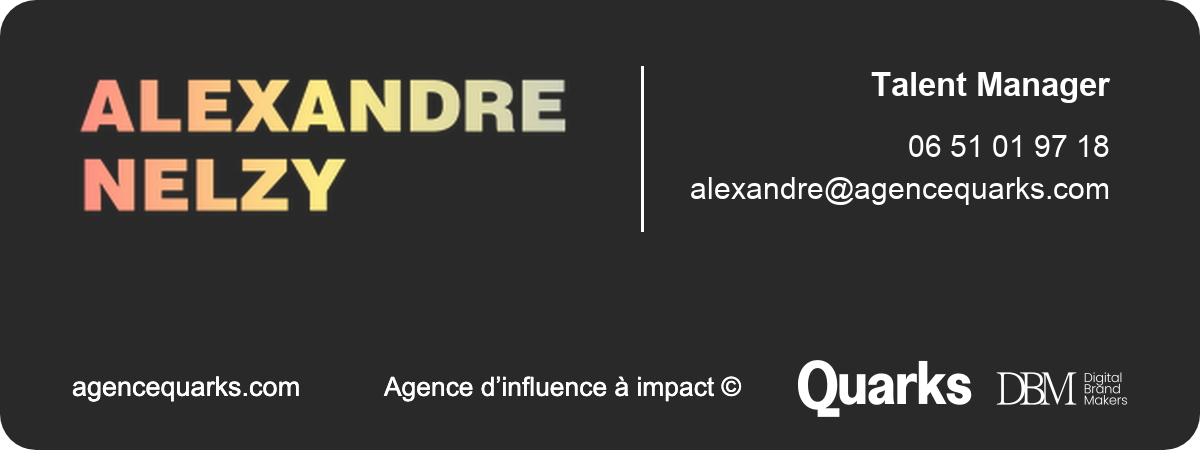
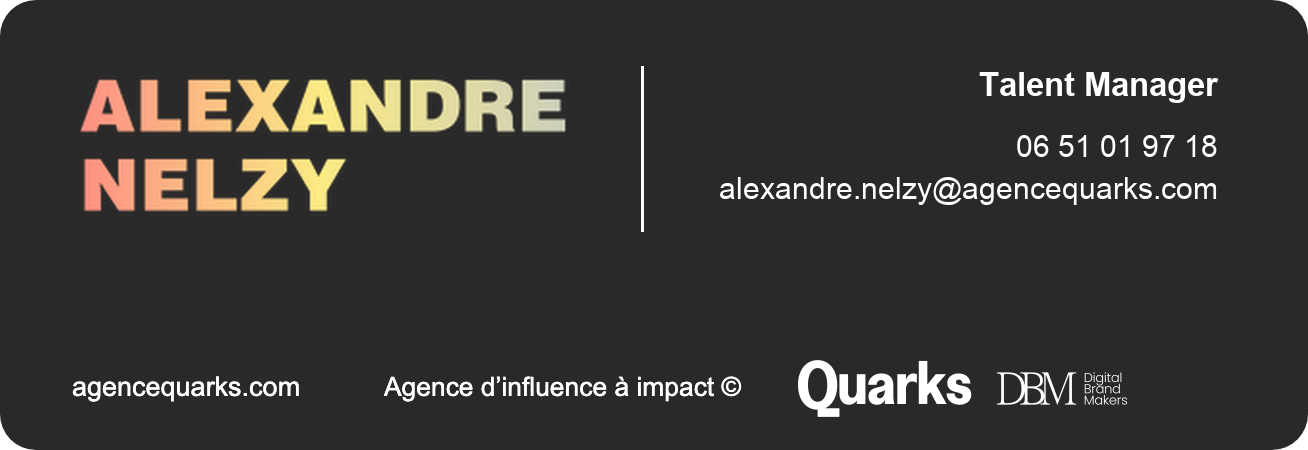
Mettre à jour l’adresse et aérer la signature d’Alexandre

diff --git a/signatures/alexandre-nelzy/signature.html b/signatures/alexandre-nelzy/signature.html
@@ -1,15 +1,15 @@
 <!doctype html>
 <html lang="fr"><head><meta charset="utf-8"><meta name="viewport" content="width=device-width,initial-scale=1"><title>Signature — Alexandre Nelzy</title></head>
 <body style="margin:0;padding:0;background:#fff;">
-<table id="signature" role="presentation" width="400" height="150" cellpadding="0" cellspacing="0" border="0" bgcolor="#292929" style="width:400px;height:150px;table-layout:fixed;border-collapse:separate;border-spacing:0;border-radius:12px;background:#292929;color:#fff;font-family:Arial,Helvetica,sans-serif;-webkit-text-size-adjust:100%;">
+<table id="signature" role="presentation" width="436" height="150" cellpadding="0" cellspacing="0" border="0" bgcolor="#292929" style="width:436px;height:150px;table-layout:fixed;border-collapse:separate;border-spacing:0;border-radius:12px;background:#292929;color:#fff;font-family:Arial,Helvetica,sans-serif;-webkit-text-size-adjust:100%;">
 <tr><td style="padding:17px 24px 11px;vertical-align:top;">
-<table role="presentation" width="352" cellpadding="0" cellspacing="0" border="0" style="width:352px;table-layout:fixed;border-collapse:collapse;">
+<table role="presentation" width="388" cellpadding="0" cellspacing="0" border="0" style="width:388px;table-layout:fixed;border-collapse:collapse;">
 <tr><td width="190" height="71" valign="top" style="width:190px;height:71px;padding:0;">
 <img src="https://raw.githubusercontent.com/raphaeldumaslevillain-commits/signature-mail-quarks-lea/main/signatures/alexandre-nelzy/identite.png" width="166" alt="Alexandre Nelzy" style="display:block;border:0;width:165.6px;height:auto;">
-</td><td width="162" valign="top" style="width:162px;padding:5px 0 0;">
-<table role="presentation" width="162" cellpadding="0" cellspacing="0" border="0" style="width:162px;table-layout:fixed;border-collapse:separate;border-spacing:0;"><tr><td align="right" style="border-left:1px solid #fff;padding:0 6px 0 8px;height:55px;vertical-align:top;text-align:right;">
+</td><td width="198" valign="top" style="width:198px;padding:5px 0 0;">
+<table role="presentation" width="198" cellpadding="0" cellspacing="0" border="0" style="width:198px;table-layout:fixed;border-collapse:separate;border-spacing:0;"><tr><td align="right" style="border-left:1px solid #fff;padding:0 6px 0 8px;height:55px;vertical-align:top;text-align:right;">
 <div style="font-size:11px;line-height:15px;font-weight:700;white-space:nowrap;">Talent Manager</div>
-<div style="font-size:10px;line-height:14px;padding-top:6px;white-space:nowrap;"><a href="tel:+33651019718" style="color:#fff;text-decoration:none;">06 51 01 97 18</a><br><a href="mailto:alexandre@agencequarks.com" style="color:#fff;text-decoration:none;">alexandre@agencequarks.com</a></div>
+<div style="font-size:10px;line-height:14px;padding-top:6px;white-space:nowrap;"><a href="tel:+33651019718" style="color:#fff;text-decoration:none;">06 51 01 97 18</a><br><a href="mailto:alexandre.nelzy@agencequarks.com" style="color:#fff;text-decoration:none;">alexandre@agencequarks.com</a></div>
 </td></tr></table></td></tr>
 <tr><td colspan="2" height="31" style="height:31px;font-size:0;line-height:31px;">&nbsp;</td></tr>
 <tr><td colspan="2" height="20" style="height:20px;padding:0;"><table role="presentation" width="352" cellpadding="0" cellspacing="0" border="0" style="width:352px;table-layout:fixed;border-collapse:collapse;"><tr>

diff --git a/signatures/alexandre-nelzy/index.html b/signatures/alexandre-nelzy/index.html
@@ -1,15 +1,15 @@
 <!doctype html>
 <html lang="fr"><head><meta charset="utf-8"><meta name="viewport" content="width=device-width,initial-scale=1"><title>Signature — Alexandre Nelzy</title></head>
 <body style="margin:0;padding:0;background:#fff;">
-<table id="signature" role="presentation" width="400" height="150" cellpadding="0" cellspacing="0" border="0" bgcolor="#292929" style="width:400px;height:150px;table-layout:fixed;border-collapse:separate;border-spacing:0;border-radius:12px;background:#292929;color:#fff;font-family:Arial,Helvetica,sans-serif;-webkit-text-size-adjust:100%;">
+<table id="signature" role="presentation" width="436" height="150" cellpadding="0" cellspacing="0" border="0" bgcolor="#292929" style="width:436px;height:150px;table-layout:fixed;border-collapse:separate;border-spacing:0;border-radius:12px;background:#292929;color:#fff;font-family:Arial,Helvetica,sans-serif;-webkit-text-size-adjust:100%;">
 <tr><td style="padding:17px 24px 11px;vertical-align:top;">
-<table role="presentation" width="352" cellpadding="0" cellspacing="0" border="0" style="width:352px;table-layout:fixed;border-collapse:collapse;">
+<table role="presentation" width="388" cellpadding="0" cellspacing="0" border="0" style="width:388px;table-layout:fixed;border-collapse:collapse;">
 <tr><td width="190" height="71" valign="top" style="width:190px;height:71px;padding:0;">
 <img src="identite.png" width="166" alt="Alexandre Nelzy" style="display:block;border:0;width:165.6px;height:auto;">
-</td><td width="162" valign="top" style="width:162px;padding:5px 0 0;">
-<table role="presentation" width="162" cellpadding="0" cellspacing="0" border="0" style="width:162px;table-layout:fixed;border-collapse:separate;border-spacing:0;"><tr><td align="right" style="border-left:1px solid #fff;padding:0 6px 0 8px;height:55px;vertical-align:top;text-align:right;">
+</td><td width="198" valign="top" style="width:198px;padding:5px 0 0;">
+<table role="presentation" width="198" cellpadding="0" cellspacing="0" border="0" style="width:198px;table-layout:fixed;border-collapse:separate;border-spacing:0;"><tr><td align="right" style="border-left:1px solid #fff;padding:0 6px 0 8px;height:55px;vertical-align:top;text-align:right;">
 <div style="font-size:11px;line-height:15px;font-weight:700;white-space:nowrap;">Talent Manager</div>
-<div style="font-size:10px;line-height:14px;padding-top:6px;white-space:nowrap;"><a href="tel:+33651019718" style="color:#fff;text-decoration:none;">06 51 01 97 18</a><br><a href="mailto:alexandre@agencequarks.com" style="color:#fff;text-decoration:none;">alexandre@agencequarks.com</a></div>
+<div style="font-size:10px;line-height:14px;padding-top:6px;white-space:nowrap;"><a href="tel:+33651019718" style="color:#fff;text-decoration:none;">06 51 01 97 18</a><br><a href="mailto:alexandre.nelzy@agencequarks.com" style="color:#fff;text-decoration:none;">alexandre@agencequarks.com</a></div>
 </td></tr></table></td></tr>
 <tr><td colspan="2" height="31" style="height:31px;font-size:0;line-height:31px;">&nbsp;</td></tr>
 <tr><td colspan="2" height="20" style="height:20px;padding:0;"><table role="presentation" width="352" cellpadding="0" cellspacing="0" border="0" style="width:352px;table-layout:fixed;border-collapse:collapse;"><tr>
